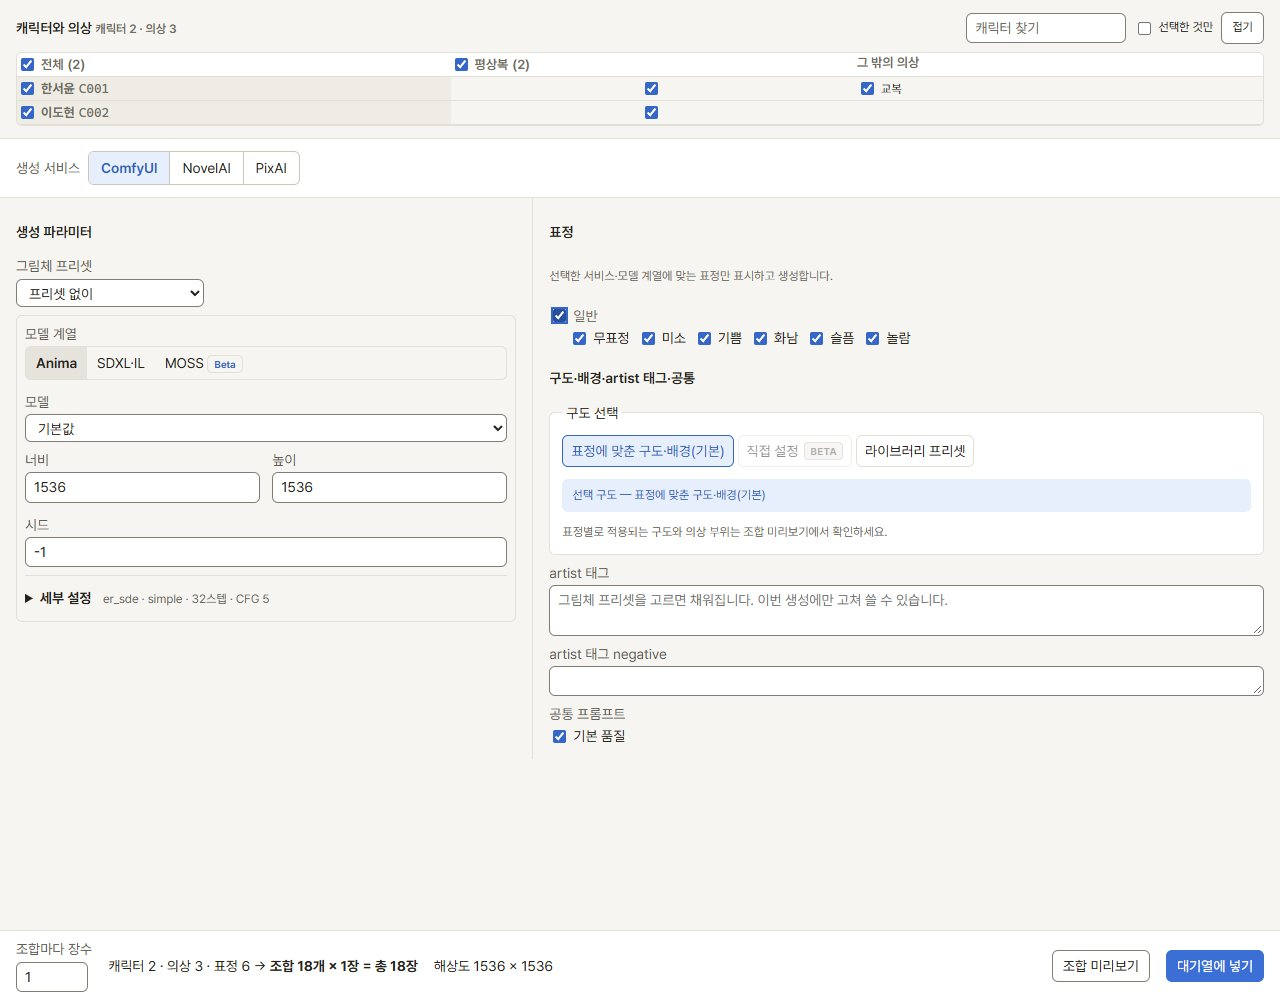
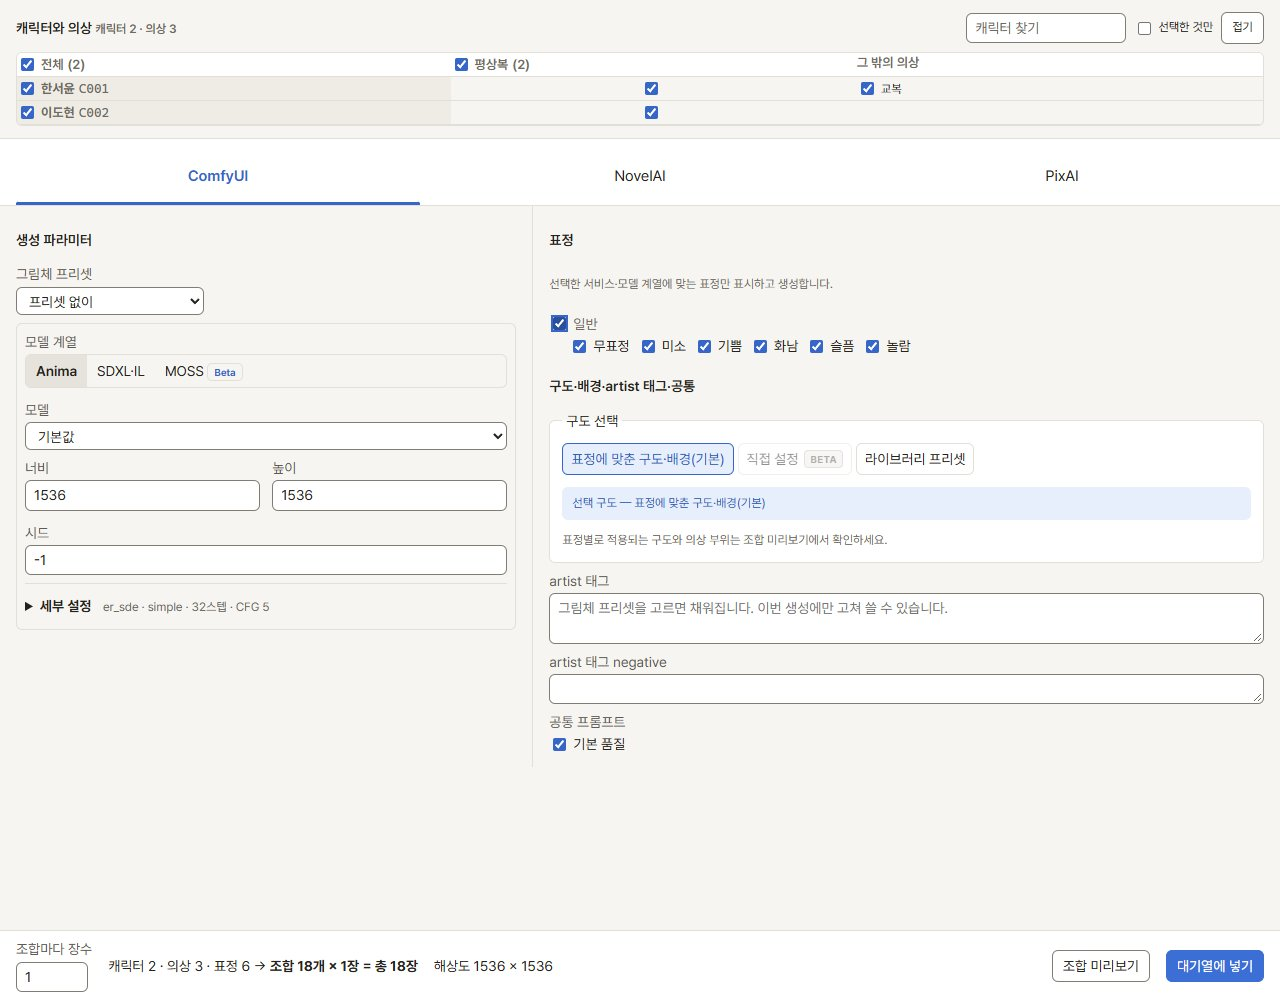
ui: emphasize generation services with underline tabs (#334)

diff --git a/web/src/styles.css b/web/src/styles.css
@@ -460,9 +460,13 @@ table.plain td, table.plain th { border-bottom: 1px solid var(--border); padding
 .generation-page { display: flex; flex-direction: column; height: 100%; min-height: 0; }
 .generation-content { flex: 1; min-height: 0; overflow: auto; }
 .image-gen-top { border-bottom: 1px solid var(--border); }
-.generation-service-bar { display: flex; flex-wrap: wrap; align-items: flex-start; gap: 8px 16px; border-bottom: 1px solid var(--border); background: var(--panel); }
-.generation-service-bar > .row { flex-wrap: wrap; }
-.generation-service-bar .service-switch { flex-wrap: wrap; }
+.generation-service-bar { padding: 18px 16px 0; border-bottom: 1px solid var(--border); background: var(--panel); }
+.generation-service-bar > .warn-text { margin: 12px 0; flex-wrap: wrap; }
+.generation-service-tabs { display: grid; grid-template-columns: repeat(3, minmax(0, 1fr)); gap: 18px; min-width: 0; }
+.generation-service-tabs > button { position: relative; min-width: 0; min-height: 48px; padding: 8px 8px 16px; border: 0; border-radius: 5px 5px 0 0; background: transparent; font-size: 15px; }
+.generation-service-tabs > button:hover:not(:disabled) { background: var(--hover); }
+.generation-service-tabs > button.on { color: var(--accent); font-weight: 600; }
+.generation-service-tabs > button.on::after { content: ''; position: absolute; inset: auto 0 0; height: 3px; border-radius: 2px 2px 0 0; background: var(--accent); }
 .image-gen { display: grid; grid-template-columns: minmax(0, 1fr) minmax(0, 1.4fr); }
 .image-gen-bar { flex: none; flex-wrap: wrap; gap: 8px 16px; padding: 8px 16px; border-top: 1px solid var(--border); background: var(--panel); }
 .generation-summary { display: flex; flex-wrap: wrap; align-items: center; gap: 4px 16px; flex-basis: 200px; }
@@ -808,8 +812,7 @@ a.button.disabled { opacity: .5; pointer-events: none; }
 .service-badge { font-size: 11px; padding: 0 6px; border-radius: 3px; background: var(--panel-2); color: var(--text-2); }
 .gallery-badges .badge.service { width: auto; padding: 0 4px; font-size: 10px; }
 
-/* Single image generation: selection stays pale; submitting work uses the filled action role. */
-.single-service > button { min-height: 36px; }
+/* Submitting work uses the filled action role. */
 .single-run > button { min-height: 36px; }
 
 /* A note to read before acting (deployment targets): not an error, not dismissable. */

diff --git a/web/src/components/image/ImageGenerate.tsx b/web/src/components/image/ImageGenerate.tsx
@@ -248,27 +248,24 @@ export default function ImageGenerate({ workId, openQueue, openItem, openSetting
       )}
         {!handed && <CharacterOutfitTable characters={designs.data ?? []} value={chars} onChange={setChars} openItem={openItem} />}
       </div>
-      <div className="generation-service-bar pad col">
-        <div className="row">
-          <span className="muted">{t('gen.service')}</span>
-          <div className="service-switch" role="radiogroup" aria-label={t('gen.service')}>
-            <button role="radio" aria-checked={!internet} className={internet ? '' : 'on'} onClick={() => chooseService('comfyui')}>
-              {SERVICE_NAMES.comfyui}
+      <div className="generation-service-bar">
+        <div className="generation-service-tabs" role="radiogroup" aria-label={t('gen.service')}>
+          <button role="radio" aria-checked={!internet} className={internet ? '' : 'on'} onClick={() => chooseService('comfyui')}>
+            {SERVICE_NAMES.comfyui}
+          </button>
+          {(services.data?.services ?? []).map((s) => (
+            <button
+              key={s.id}
+              role="radio"
+              aria-checked={service === s.id}
+              className={service === s.id ? 'on' : ''}
+              disabled={!s.supported}
+              title={!s.supported ? t('image_services.not_supported') : s.connected ? undefined : t('gen.service_needs_key')}
+              onClick={() => chooseService(s.id)}
+            >
+              {s.name}
             </button>
-            {(services.data?.services ?? []).map((s) => (
-              <button
-                key={s.id}
-                role="radio"
-                aria-checked={service === s.id}
-                className={service === s.id ? 'on' : ''}
-                disabled={!s.supported}
-                title={!s.supported ? t('image_services.not_supported') : s.connected ? undefined : t('gen.service_needs_key')}
-                onClick={() => chooseService(s.id)}
-              >
-                {s.name}
-              </button>
-            ))}
-          </div>
+          ))}
         </div>
         {internet && serviceInfo && !serviceInfo.connected && (
           <div className="warn-text row">

diff --git a/web/src/components/image/ImageSingle.tsx b/web/src/components/image/ImageSingle.tsx
@@ -288,11 +288,10 @@ export default function ImageSingle({ workId, openView, active: screenActive = t
       {workId && <div className="seg" aria-label={t('single.mode')}><button type="button" className="on" aria-pressed="true">{t('single.general')}</button><button type="button" disabled>{t('single.multi')}</button></div>}
     </header>
     <div className="generation-service-bar">
-      <span className="muted">{t('gen.service')}</span>
-        <div className="single-service service-switch" role="group" aria-label={t('gen.service')}>
-          {(['comfyui', 'novelai', 'pixai'] as Service[]).map(service => <button type="button" key={service} className={draft.service === service ? 'on' : ''} aria-pressed={draft.service === service} onClick={() => update({ service, preset: '', sources: draft.sources.filter(source => !['style', 'common'].includes(source.kind)) })}>{SERVICE_NAMES[service]}</button>)}
-        </div>
-        {!ready && <p className="warn-text" role="alert">{draft.service === 'comfyui' ? t('gen.not_connected') : t('single.service_unavailable')}</p>}
+      <div className="generation-service-tabs" role="group" aria-label={t('gen.service')}>
+        {(['comfyui', 'novelai', 'pixai'] as Service[]).map(service => <button type="button" key={service} className={draft.service === service ? 'on' : ''} aria-pressed={draft.service === service} onClick={() => update({ service, preset: '', sources: draft.sources.filter(source => !['style', 'common'].includes(source.kind)) })}>{SERVICE_NAMES[service]}</button>)}
+      </div>
+      {!ready && <p className="warn-text" role="alert">{draft.service === 'comfyui' ? t('gen.not_connected') : t('single.service_unavailable')}</p>}
     </div>
     <div className="single-layout">
       <div className="single-form single-settings">

diff --git a/web/src/components/image/ImageSingle.css b/web/src/components/image/ImageSingle.css
@@ -8,11 +8,9 @@
 .single-form, .single-result { min-width: 0; }
 .single-workspace { display: grid; gap: 24px; min-width: 0; }
 .single-settings { padding: 16px; border: 1px solid var(--border); border-radius: var(--radius); background: var(--panel); }
-.single-image .generation-service-bar { align-items: center; padding: 12px 0; margin-bottom: 20px; }
-.single-image .generation-service-bar > .warn-text { flex-basis: 100%; margin: 0; }
+.single-image .generation-service-bar { margin-bottom: 20px; }
 .moss-single .single-canvas { height: auto; aspect-ratio: 1; }
-.single-service, .single-helpers, .single-result-links { display: flex; flex-wrap: wrap; gap: 8px; align-items: center; }
-.single-service { gap: 0; }
+.single-helpers, .single-result-links { display: flex; flex-wrap: wrap; gap: 8px; align-items: center; }
 .single-field { display: flex; flex-direction: column; gap: 7px; margin-bottom: 16px; }
 .single-field textarea { width: 100%; resize: vertical; min-height: 84px; line-height: 1.6; }
 .single-details { border-top: 1px solid var(--border); margin-top: 16px; padding-top: 12px; }

diff --git a/docs/manual/guide/batch-generation.md b/docs/manual/guide/batch-generation.md
@@ -5,7 +5,7 @@
 ## 대상과 설정 고르기
 
 1. 위쪽 **캐릭터와 의상** 표에서 만들 칸을 선택합니다. 행은 캐릭터, 열은 의상입니다. 캐릭터 이름을 누르면 그 캐릭터의 의상 전체를, 의상 이름을 누르면 그 의상을 가진 캐릭터 전체를 선택합니다. 왼쪽 위 **전체**는 모든 칸을 선택하거나 해제합니다. 예를 들어 모든 캐릭터의 평상복을 만들려면 평상복 열 머리를 누릅니다.
-2. 캐릭터·의상 표 바로 아래의 **생성 서비스**에서 ComfyUI·NovelAI·PixAI 중 하나를 선택합니다. 그 아래 왼쪽에는 그림체와 생성 설정, 오른쪽에는 표정과 프롬프트가 있습니다. 좁은 창에서는 설정 다음에 표정과 프롬프트가 세로로 이어집니다.
+2. 캐릭터·의상 표 바로 아래의 **ComfyUI·NovelAI·PixAI 탭**에서 서비스를 선택합니다. 선택한 탭에는 강조색 하단선이 표시됩니다. 그 아래 왼쪽에는 그림체와 생성 설정, 오른쪽에는 표정과 프롬프트가 있습니다. 좁은 창에서는 설정 다음에 표정과 프롬프트가 세로로 이어집니다.
 3. 왼쪽에서 해당 서비스용 **그림체 프리셋**을 선택하고 모델 계열·크기·시드를 확인합니다. 프리셋의 모델 계열·설정, 지정한 기본 공통 프롬프트, **artist 태그**가 적용됩니다. **프리셋 없이**로 돌아가면 이전에 가져온 입력을 확인하고 필요한 값을 직접 바꿉니다. 필요하면 **세부 설정**에서 샘플러·LoRA·업스케일 등을 조정합니다. [ComfyUI 생성 설정](generation.md) · [인터넷 이미지 서비스](image-services.md)
 4. 오른쪽 **표정**에서 하나 이상을 고릅니다. 선택한 생성 서비스·모델 계열에 맞는 표정만 표시하며, 사용 대상이 지정되지 않은 표정은 모든 서비스에서 사용할 수 있습니다. 고른 캐릭터·의상마다 선택한 표정 수만큼 조합이 만들어집니다. 예를 들어 교복을 고른 캐릭터 한 명에 미소·웃음을 체크하면 두 조합이 생깁니다. 서비스·모델 계열을 바꾸면 맞지 않는 표정은 목록과 생성 대상에서 빠지고, 원래 서비스·모델 계열로 돌아오면 기존 선택이 다시 적용됩니다.
 5. 표정 아래의 **구도 선택**, **artist 태그**, **artist 태그 negative**, **공통 프롬프트**를 확인합니다. 기본 구도는 **표정에 맞춘 구도·배경(기본)**입니다. **다른 대상용 N개 보기**를 펼치면 현재 모델 계열·서비스와 맞지 않는 공통 프롬프트도 볼 수 있습니다. [구도 선택](composition.md) · [프롬프트 라이브러리](image-library.md)

diff --git a/docs/manual/guide/single-generation.md b/docs/manual/guide/single-generation.md
@@ -29,7 +29,7 @@
 
 ### 한 장 생성하기
 
-1. 화면 상단 **생성 서비스**에서 연결된 ComfyUI·NovelAI·PixAI 중 하나를 고릅니다. 서비스별 모델과 설정 입력은 따로 기억합니다. 연결과 키 등록은 [이미지 생성](generation.md)에서 확인하세요.
+1. 화면 상단의 **ComfyUI·NovelAI·PixAI 탭**에서 연결된 서비스를 고릅니다. 선택한 탭에는 강조색 하단선이 표시됩니다. 서비스별 모델과 설정 입력은 따로 기억합니다. 연결과 키 등록은 [이미지 생성](generation.md)에서 확인하세요.
 2. 오른쪽 **프롬프트 · Positive**에 원하는 장면을, **제외할 요소 · Negative**에 피할 요소를 적습니다. 예를 들어 Positive에 `a quiet lakeside, distant mountains, morning light`, Negative에 `blurry`를 넣어 볼 수 있습니다. **예시 프롬프트 추가**는 입력 끝에 예시 장면을 붙입니다.
 3. 필요하면 왼쪽의 **그림체 프리셋**, 오른쪽의 **프롬프트 재료**, [구도 선택](composition.md)을 사용합니다. **조합된 프롬프트 확인**을 펼쳐 합쳐진 Positive·Negative를 확인하세요. 서비스별 자동 설정은 요청할 때 적용됩니다.
 4. 왼쪽 **생성 파라미터**에서 모델·크기·시드를 확인합니다. 샘플러·스텝·CFG 등을 조절하려면 **세부 설정**을 펼칩니다. 접어 두면 제목 옆에 현재 설정 요약이 표시됩니다.
